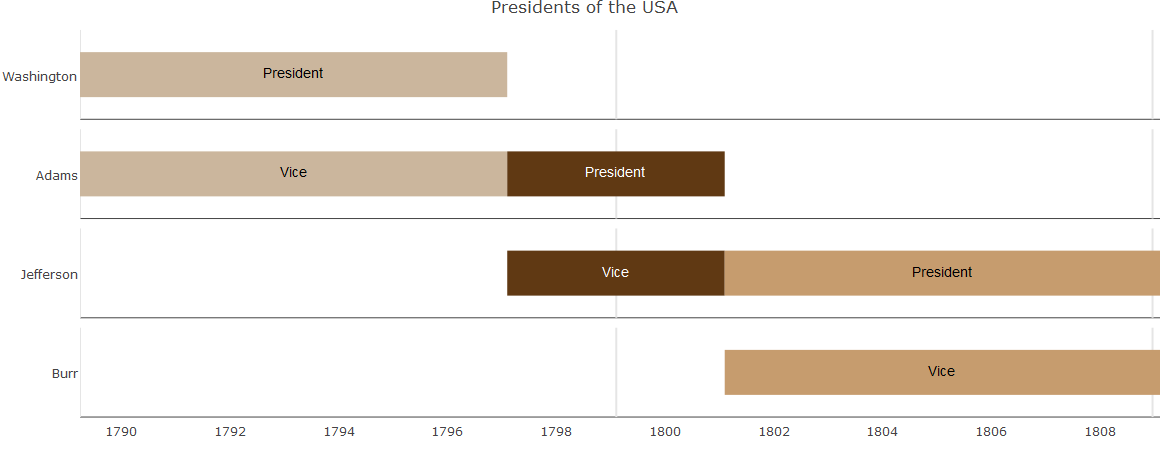
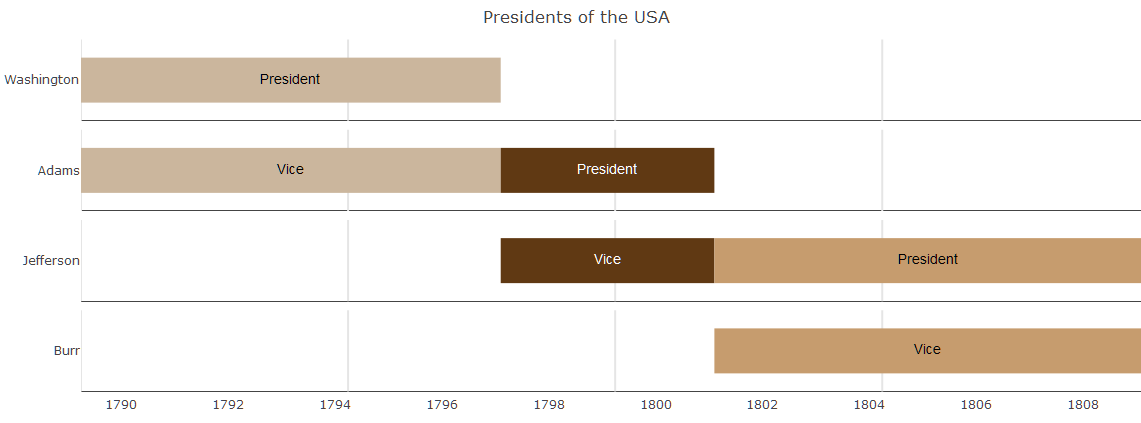
v 0.4.1: new Parameters showLabels, lineInterval

diff --git a/README.md b/README.md
@@ -12,7 +12,7 @@ Create timelines or Gantt charts, offline and interactive, that are usable in th
 
 ### Installation
 
-To install the package from CRAN (v0.4.0):
+To install the package from CRAN (v0.4.1):
 
 ```{r}
 install.packages("vistime")
@@ -29,7 +29,8 @@ devtools::install_github("shosaco/vistime")
 
 ```{r}
 vistime(data, start = "start", end = "end", groups = "group", events = "event", colors = "color", 
-              fontcolors = "fontcolor", tooltips = "tooltip", linewidth = NULL, title = NULL)
+              fontcolors = "fontcolor", tooltips = "tooltip", linewidth = NULL, 
+              title = NULL, showLabels = TRUE, lineInterval = NULL)
 ````
 
 
@@ -47,6 +48,8 @@ fontcolors | optional | character | the column name in data that contains the fo
 tooltips | optional | character | the column name in data that contains the mouseover tooltips for the events. Default: "*tooltip*", if not present, then tooltips are build from event name and date. <a href="http://help.plot.ly/adding-HTML-and-links-to-charts/#step-2-the-essentials", target="_blank">Basic HTML</a> is allowed
 linewidth | optional | numeric | override the calculated linewidth for events
 title | optional | character | the title to be shown on top of the timeline
+showLabels | optional | logical | choose whether or not event labels shall be visible
+lineInterval | optional | integer| the distance of vertical lines (in **seconds**) to demonstrate structure (default: heuristic, depending on total data range)
 
 ### Value
 
@@ -57,14 +60,14 @@ title | optional | character | the title to be shown on top of the timeline
 
 #### Ex. 1: Presidents
 ```{r}
-dat <- data.frame(Position=rep(c("President", "Vice"), each = 3),
+pres <- data.frame(Position=rep(c("President", "Vice"), each = 3),
                   Name = c("Washington", rep(c("Adams", "Jefferson"), 2), "Burr"),
                   start = c("1789-03-29", "1797-02-03", "1801-02-03"),
                   end = c("1797-02-03", "1801-02-03", "1809-02-03"),
                   color = c('#cbb69d', '#603913', '#c69c6e'),
                   fontcolor = c("black", "white", "black"))
                   
-vistime(dat, events="Position", groups="Name", title="Presidents of the USA")
+vistime(pres, events="Position", groups="Name", title="Presidents of the USA", lineInterval = 60*60*24*365*5)
 ````
 ![](inst/img/ex2.png)
 

diff --git a/NEWS.md b/NEWS.md
@@ -1,5 +1,7 @@
 # 0.4.1 (dev)
-- improved vertical line drawing for time ranges 10 to 20 years (one line every year)
+- added a new argument `showLabels` to choose whether or not the event labels shall be drawn - improves layout of dense timelines
+- new argument `lineInterval`: the distance in seconds that vertical lines shall be drawn (to reduce plot size and increase performance). When omitted, a heuristic is used (as before) is used.
+- improved heuristic of vertical line drawing for time ranges 10 to 20 years (one line every year)
 - corrected font colors of Presidents example on help page
 
 # 0.4.0 (CRAN)
